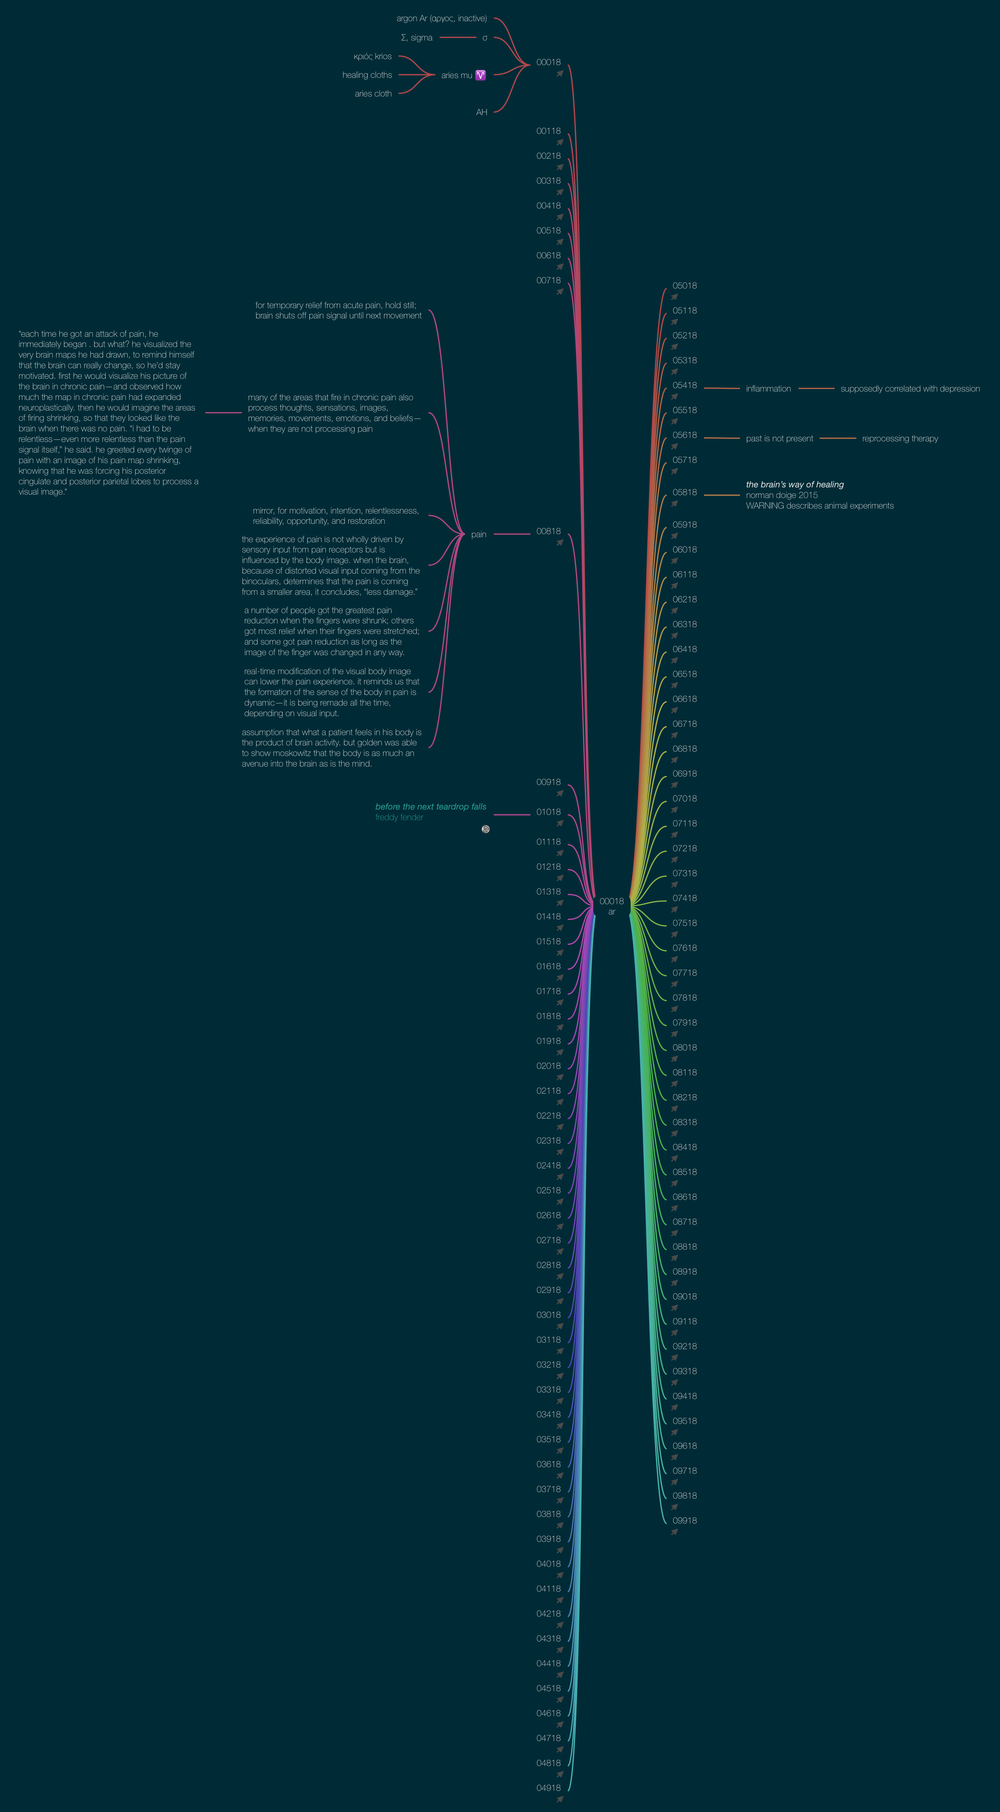
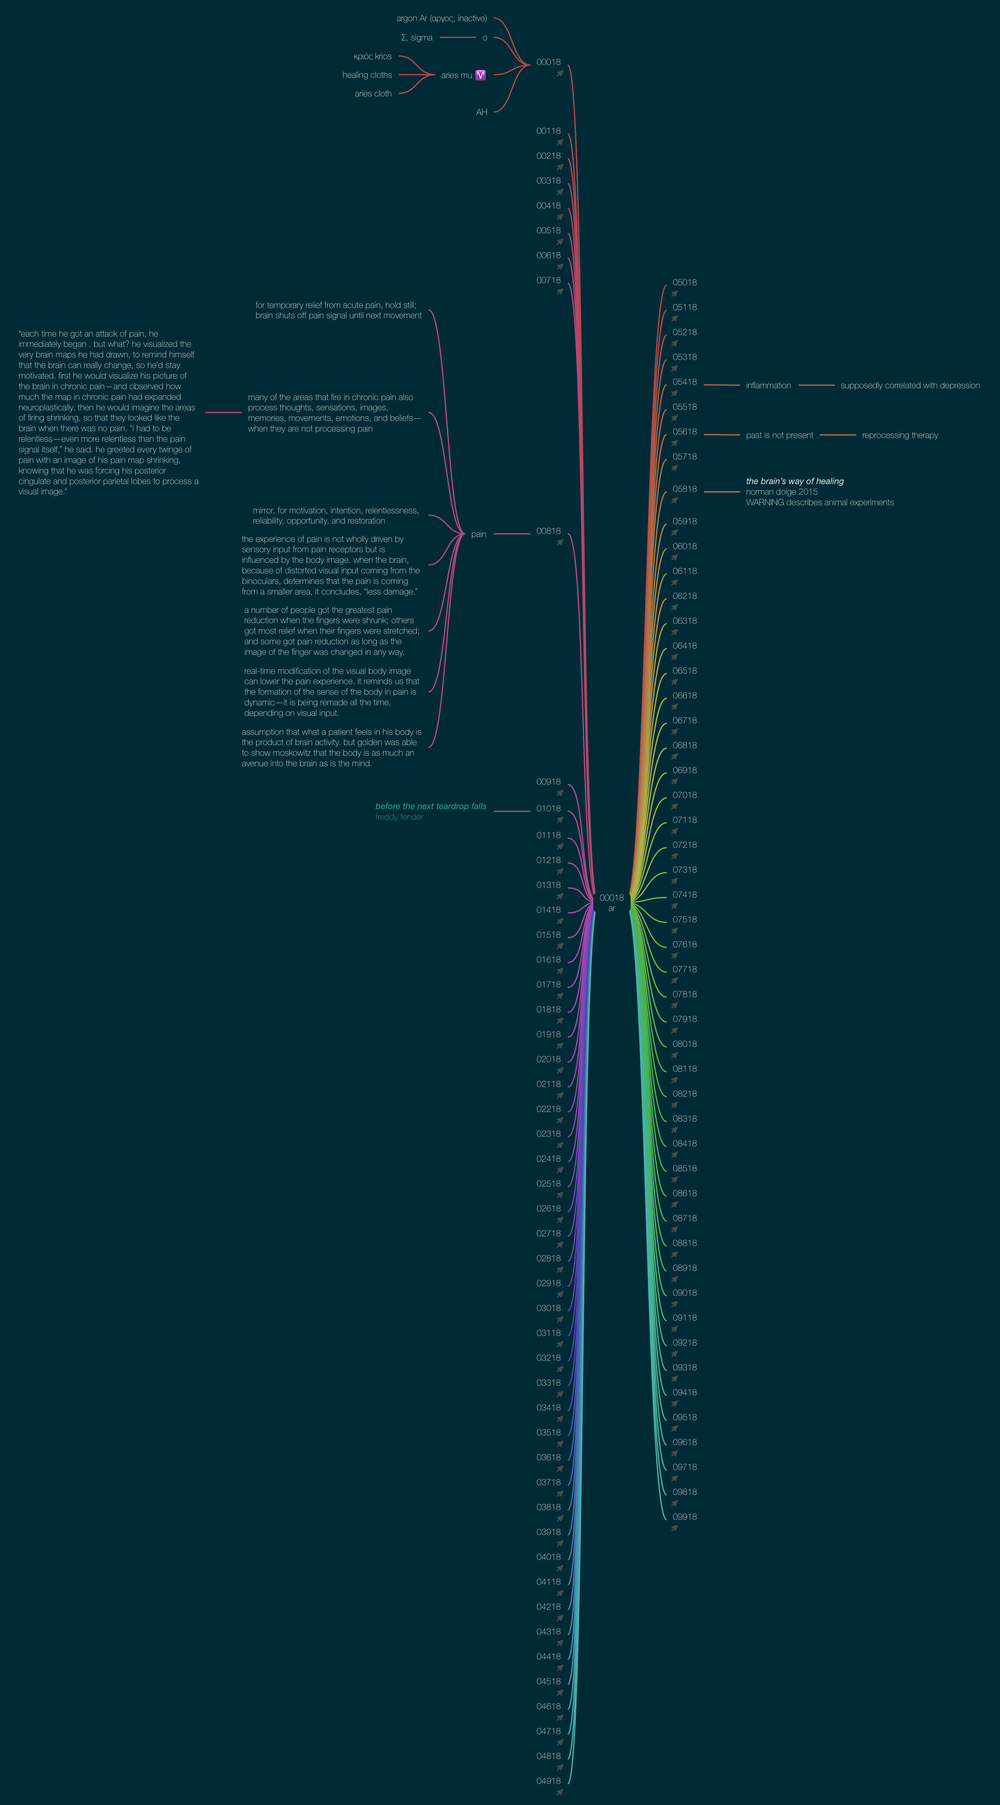
before the next teardrop falls

diff --git a/00018.html b/00018.html
@@ -45,8 +45,8 @@ rect:hover {
 
 <body>
 
-<div class="container"><div class="spacer">&nbsp;</div><div class="svg-container"><svg version="1.1"  preserveAspectRatio="xMinYMin meet" class="svg-content" viewBox="0 0 3216 5822" xmlns="http://www.w3.org/2000/svg" xmlns:xlink="http://www.w3.org/1999/xlink">
-<image width="3216" height="5822" xlink:href="00018-assets/00018.png"></image>
+<div class="container"><div class="spacer">&nbsp;</div><div class="svg-container"><svg version="1.1"  preserveAspectRatio="xMinYMin meet" class="svg-content" viewBox="0 0 3216 5802" xmlns="http://www.w3.org/2000/svg" xmlns:xlink="http://www.w3.org/1999/xlink">
+<image width="3216" height="5802" xlink:href="00018-assets/00018.png"></image>
 <a xlink:href="00018" xlink:title="00018"><rect x="1786" y="223" width="28" height="28"/></a>
 <a xlink:href="00118" xlink:title="00118"><rect x="1786" y="444" width="28" height="28"/></a>
 <a xlink:href="00218" xlink:title="00218"><rect x="1786" y="524" width="28" height="28"/></a>
@@ -57,97 +57,96 @@ rect:hover {
 <a xlink:href="00718" xlink:title="00718"><rect x="1786" y="924" width="28" height="28"/></a>
 <a xlink:href="00818" xlink:title="00818"><rect x="1786" y="1730" width="28" height="28"/></a>
 <a xlink:href="00918" xlink:title="00918"><rect x="1786" y="2536" width="28" height="28"/></a>
-<a xlink:href="01018" xlink:title="01018"><rect x="1786" y="2632" width="28" height="28"/></a>
-<a xlink:href="https://soundcloud.com/makiaea/before-the-next-teardrop-falls-freddie-fender-cover-makiaea-vocal-solo" xlink:title="https://soundcloud.com/makiaea/before-the-next-teardrop-falls-freddie-fender-cover-makiaea-vocal-solo"><rect x="1548" y="2650" width="28" height="28"/></a>
-<a xlink:href="01118" xlink:title="01118"><rect x="1786" y="2728" width="28" height="28"/></a>
-<a xlink:href="01218" xlink:title="01218"><rect x="1786" y="2808" width="28" height="28"/></a>
-<a xlink:href="01318" xlink:title="01318"><rect x="1786" y="2888" width="28" height="28"/></a>
-<a xlink:href="01418" xlink:title="01418"><rect x="1786" y="2968" width="28" height="28"/></a>
-<a xlink:href="01518" xlink:title="01518"><rect x="1786" y="3048" width="28" height="28"/></a>
-<a xlink:href="01618" xlink:title="01618"><rect x="1786" y="3128" width="28" height="28"/></a>
-<a xlink:href="01718" xlink:title="01718"><rect x="1786" y="3208" width="28" height="28"/></a>
-<a xlink:href="01818" xlink:title="01818"><rect x="1786" y="3288" width="28" height="28"/></a>
-<a xlink:href="01918" xlink:title="01918"><rect x="1786" y="3368" width="28" height="28"/></a>
-<a xlink:href="02018" xlink:title="02018"><rect x="1786" y="3448" width="28" height="28"/></a>
-<a xlink:href="02118" xlink:title="02118"><rect x="1786" y="3528" width="28" height="28"/></a>
-<a xlink:href="02218" xlink:title="02218"><rect x="1786" y="3608" width="28" height="28"/></a>
-<a xlink:href="02318" xlink:title="02318"><rect x="1786" y="3688" width="28" height="28"/></a>
-<a xlink:href="02418" xlink:title="02418"><rect x="1786" y="3768" width="28" height="28"/></a>
-<a xlink:href="02518" xlink:title="02518"><rect x="1786" y="3848" width="28" height="28"/></a>
-<a xlink:href="02618" xlink:title="02618"><rect x="1786" y="3928" width="28" height="28"/></a>
-<a xlink:href="02718" xlink:title="02718"><rect x="1786" y="4008" width="28" height="28"/></a>
-<a xlink:href="02818" xlink:title="02818"><rect x="1786" y="4088" width="28" height="28"/></a>
-<a xlink:href="02918" xlink:title="02918"><rect x="1786" y="4168" width="28" height="28"/></a>
-<a xlink:href="03018" xlink:title="03018"><rect x="1786" y="4248" width="28" height="28"/></a>
-<a xlink:href="03118" xlink:title="03118"><rect x="1786" y="4328" width="28" height="28"/></a>
-<a xlink:href="03218" xlink:title="03218"><rect x="1786" y="4408" width="28" height="28"/></a>
-<a xlink:href="03318" xlink:title="03318"><rect x="1786" y="4488" width="28" height="28"/></a>
-<a xlink:href="03418" xlink:title="03418"><rect x="1786" y="4568" width="28" height="28"/></a>
-<a xlink:href="03518" xlink:title="03518"><rect x="1786" y="4648" width="28" height="28"/></a>
-<a xlink:href="03618" xlink:title="03618"><rect x="1786" y="4728" width="28" height="28"/></a>
-<a xlink:href="03718" xlink:title="03718"><rect x="1786" y="4808" width="28" height="28"/></a>
-<a xlink:href="03818" xlink:title="03818"><rect x="1786" y="4888" width="28" height="28"/></a>
-<a xlink:href="03918" xlink:title="03918"><rect x="1786" y="4968" width="28" height="28"/></a>
-<a xlink:href="04018" xlink:title="04018"><rect x="1786" y="5048" width="28" height="28"/></a>
-<a xlink:href="04118" xlink:title="04118"><rect x="1786" y="5128" width="28" height="28"/></a>
-<a xlink:href="04218" xlink:title="04218"><rect x="1786" y="5208" width="28" height="28"/></a>
-<a xlink:href="04318" xlink:title="04318"><rect x="1786" y="5288" width="28" height="28"/></a>
-<a xlink:href="04418" xlink:title="04418"><rect x="1786" y="5368" width="28" height="28"/></a>
-<a xlink:href="04518" xlink:title="04518"><rect x="1786" y="5448" width="28" height="28"/></a>
-<a xlink:href="04618" xlink:title="04618"><rect x="1786" y="5528" width="28" height="28"/></a>
-<a xlink:href="04718" xlink:title="04718"><rect x="1786" y="5608" width="28" height="28"/></a>
-<a xlink:href="04818" xlink:title="04818"><rect x="1786" y="5688" width="28" height="28"/></a>
-<a xlink:href="04918" xlink:title="04918"><rect x="1786" y="5768" width="28" height="28"/></a>
-<a xlink:href="05018" xlink:title="05018"><rect x="2154" y="941" width="28" height="28"/></a>
-<a xlink:href="05118" xlink:title="05118"><rect x="2154" y="1021" width="28" height="28"/></a>
-<a xlink:href="05218" xlink:title="05218"><rect x="2154" y="1101" width="28" height="28"/></a>
-<a xlink:href="05318" xlink:title="05318"><rect x="2154" y="1181" width="28" height="28"/></a>
-<a xlink:href="05418" xlink:title="05418"><rect x="2154" y="1261" width="28" height="28"/></a>
-<a xlink:href="05518" xlink:title="05518"><rect x="2154" y="1341" width="28" height="28"/></a>
-<a xlink:href="05618" xlink:title="05618"><rect x="2154" y="1421" width="28" height="28"/></a>
-<a xlink:href="05718" xlink:title="05718"><rect x="2154" y="1501" width="28" height="28"/></a>
-<a xlink:href="05818" xlink:title="05818"><rect x="2154" y="1605" width="28" height="28"/></a>
-<a xlink:href="05918" xlink:title="05918"><rect x="2154" y="1709" width="28" height="28"/></a>
-<a xlink:href="06018" xlink:title="06018"><rect x="2154" y="1789" width="28" height="28"/></a>
-<a xlink:href="06118" xlink:title="06118"><rect x="2154" y="1869" width="28" height="28"/></a>
-<a xlink:href="06218" xlink:title="06218"><rect x="2154" y="1949" width="28" height="28"/></a>
-<a xlink:href="06318" xlink:title="06318"><rect x="2154" y="2029" width="28" height="28"/></a>
-<a xlink:href="06418" xlink:title="06418"><rect x="2154" y="2109" width="28" height="28"/></a>
-<a xlink:href="06518" xlink:title="06518"><rect x="2154" y="2189" width="28" height="28"/></a>
-<a xlink:href="06618" xlink:title="06618"><rect x="2154" y="2269" width="28" height="28"/></a>
-<a xlink:href="06718" xlink:title="06718"><rect x="2154" y="2349" width="28" height="28"/></a>
-<a xlink:href="06818" xlink:title="06818"><rect x="2154" y="2429" width="28" height="28"/></a>
-<a xlink:href="06918" xlink:title="06918"><rect x="2154" y="2509" width="28" height="28"/></a>
-<a xlink:href="07018" xlink:title="07018"><rect x="2154" y="2589" width="28" height="28"/></a>
-<a xlink:href="07118" xlink:title="07118"><rect x="2154" y="2669" width="28" height="28"/></a>
-<a xlink:href="07218" xlink:title="07218"><rect x="2154" y="2749" width="28" height="28"/></a>
-<a xlink:href="07318" xlink:title="07318"><rect x="2154" y="2829" width="28" height="28"/></a>
-<a xlink:href="07418" xlink:title="07418"><rect x="2154" y="2909" width="28" height="28"/></a>
-<a xlink:href="07518" xlink:title="07518"><rect x="2154" y="2989" width="28" height="28"/></a>
-<a xlink:href="07618" xlink:title="07618"><rect x="2154" y="3069" width="28" height="28"/></a>
-<a xlink:href="07718" xlink:title="07718"><rect x="2154" y="3149" width="28" height="28"/></a>
-<a xlink:href="07818" xlink:title="07818"><rect x="2154" y="3229" width="28" height="28"/></a>
-<a xlink:href="07918" xlink:title="07918"><rect x="2154" y="3309" width="28" height="28"/></a>
-<a xlink:href="08018" xlink:title="08018"><rect x="2154" y="3389" width="28" height="28"/></a>
-<a xlink:href="08118" xlink:title="08118"><rect x="2154" y="3469" width="28" height="28"/></a>
-<a xlink:href="08218" xlink:title="08218"><rect x="2154" y="3549" width="28" height="28"/></a>
-<a xlink:href="08318" xlink:title="08318"><rect x="2154" y="3629" width="28" height="28"/></a>
-<a xlink:href="08418" xlink:title="08418"><rect x="2154" y="3709" width="28" height="28"/></a>
-<a xlink:href="08518" xlink:title="08518"><rect x="2154" y="3789" width="28" height="28"/></a>
-<a xlink:href="08618" xlink:title="08618"><rect x="2154" y="3869" width="28" height="28"/></a>
-<a xlink:href="08718" xlink:title="08718"><rect x="2154" y="3949" width="28" height="28"/></a>
-<a xlink:href="08818" xlink:title="08818"><rect x="2154" y="4029" width="28" height="28"/></a>
-<a xlink:href="08918" xlink:title="08918"><rect x="2154" y="4109" width="28" height="28"/></a>
-<a xlink:href="09018" xlink:title="09018"><rect x="2154" y="4189" width="28" height="28"/></a>
-<a xlink:href="09118" xlink:title="09118"><rect x="2154" y="4269" width="28" height="28"/></a>
-<a xlink:href="09218" xlink:title="09218"><rect x="2154" y="4349" width="28" height="28"/></a>
-<a xlink:href="09318" xlink:title="09318"><rect x="2154" y="4429" width="28" height="28"/></a>
-<a xlink:href="09418" xlink:title="09418"><rect x="2154" y="4509" width="28" height="28"/></a>
-<a xlink:href="09518" xlink:title="09518"><rect x="2154" y="4589" width="28" height="28"/></a>
-<a xlink:href="09618" xlink:title="09618"><rect x="2154" y="4669" width="28" height="28"/></a>
-<a xlink:href="09718" xlink:title="09718"><rect x="2154" y="4749" width="28" height="28"/></a>
-<a xlink:href="09818" xlink:title="09818"><rect x="2154" y="4829" width="28" height="28"/></a>
-<a xlink:href="09918" xlink:title="09918"><rect x="2154" y="4909" width="28" height="28"/></a>
+<a xlink:href="ithoughts://open?path=01018.itmz" xlink:title="ithoughts://open?path=01018.itmz"><rect x="1786" y="2622" width="28" height="28"/></a>
+<a xlink:href="01118" xlink:title="01118"><rect x="1786" y="2708" width="28" height="28"/></a>
+<a xlink:href="01218" xlink:title="01218"><rect x="1786" y="2788" width="28" height="28"/></a>
+<a xlink:href="01318" xlink:title="01318"><rect x="1786" y="2868" width="28" height="28"/></a>
+<a xlink:href="01418" xlink:title="01418"><rect x="1786" y="2948" width="28" height="28"/></a>
+<a xlink:href="01518" xlink:title="01518"><rect x="1786" y="3028" width="28" height="28"/></a>
+<a xlink:href="01618" xlink:title="01618"><rect x="1786" y="3108" width="28" height="28"/></a>
+<a xlink:href="01718" xlink:title="01718"><rect x="1786" y="3188" width="28" height="28"/></a>
+<a xlink:href="01818" xlink:title="01818"><rect x="1786" y="3268" width="28" height="28"/></a>
+<a xlink:href="01918" xlink:title="01918"><rect x="1786" y="3348" width="28" height="28"/></a>
+<a xlink:href="02018" xlink:title="02018"><rect x="1786" y="3428" width="28" height="28"/></a>
+<a xlink:href="02118" xlink:title="02118"><rect x="1786" y="3508" width="28" height="28"/></a>
+<a xlink:href="02218" xlink:title="02218"><rect x="1786" y="3588" width="28" height="28"/></a>
+<a xlink:href="02318" xlink:title="02318"><rect x="1786" y="3668" width="28" height="28"/></a>
+<a xlink:href="02418" xlink:title="02418"><rect x="1786" y="3748" width="28" height="28"/></a>
+<a xlink:href="02518" xlink:title="02518"><rect x="1786" y="3828" width="28" height="28"/></a>
+<a xlink:href="02618" xlink:title="02618"><rect x="1786" y="3908" width="28" height="28"/></a>
+<a xlink:href="02718" xlink:title="02718"><rect x="1786" y="3988" width="28" height="28"/></a>
+<a xlink:href="02818" xlink:title="02818"><rect x="1786" y="4068" width="28" height="28"/></a>
+<a xlink:href="02918" xlink:title="02918"><rect x="1786" y="4148" width="28" height="28"/></a>
+<a xlink:href="03018" xlink:title="03018"><rect x="1786" y="4228" width="28" height="28"/></a>
+<a xlink:href="03118" xlink:title="03118"><rect x="1786" y="4308" width="28" height="28"/></a>
+<a xlink:href="03218" xlink:title="03218"><rect x="1786" y="4388" width="28" height="28"/></a>
+<a xlink:href="03318" xlink:title="03318"><rect x="1786" y="4468" width="28" height="28"/></a>
+<a xlink:href="03418" xlink:title="03418"><rect x="1786" y="4548" width="28" height="28"/></a>
+<a xlink:href="03518" xlink:title="03518"><rect x="1786" y="4628" width="28" height="28"/></a>
+<a xlink:href="03618" xlink:title="03618"><rect x="1786" y="4708" width="28" height="28"/></a>
+<a xlink:href="03718" xlink:title="03718"><rect x="1786" y="4788" width="28" height="28"/></a>
+<a xlink:href="03818" xlink:title="03818"><rect x="1786" y="4868" width="28" height="28"/></a>
+<a xlink:href="03918" xlink:title="03918"><rect x="1786" y="4948" width="28" height="28"/></a>
+<a xlink:href="04018" xlink:title="04018"><rect x="1786" y="5028" width="28" height="28"/></a>
+<a xlink:href="04118" xlink:title="04118"><rect x="1786" y="5108" width="28" height="28"/></a>
+<a xlink:href="04218" xlink:title="04218"><rect x="1786" y="5188" width="28" height="28"/></a>
+<a xlink:href="04318" xlink:title="04318"><rect x="1786" y="5268" width="28" height="28"/></a>
+<a xlink:href="04418" xlink:title="04418"><rect x="1786" y="5348" width="28" height="28"/></a>
+<a xlink:href="04518" xlink:title="04518"><rect x="1786" y="5428" width="28" height="28"/></a>
+<a xlink:href="04618" xlink:title="04618"><rect x="1786" y="5508" width="28" height="28"/></a>
+<a xlink:href="04718" xlink:title="04718"><rect x="1786" y="5588" width="28" height="28"/></a>
+<a xlink:href="04818" xlink:title="04818"><rect x="1786" y="5668" width="28" height="28"/></a>
+<a xlink:href="04918" xlink:title="04918"><rect x="1786" y="5748" width="28" height="28"/></a>
+<a xlink:href="05018" xlink:title="05018"><rect x="2154" y="931" width="28" height="28"/></a>
+<a xlink:href="05118" xlink:title="05118"><rect x="2154" y="1011" width="28" height="28"/></a>
+<a xlink:href="05218" xlink:title="05218"><rect x="2154" y="1091" width="28" height="28"/></a>
+<a xlink:href="05318" xlink:title="05318"><rect x="2154" y="1171" width="28" height="28"/></a>
+<a xlink:href="05418" xlink:title="05418"><rect x="2154" y="1251" width="28" height="28"/></a>
+<a xlink:href="05518" xlink:title="05518"><rect x="2154" y="1331" width="28" height="28"/></a>
+<a xlink:href="05618" xlink:title="05618"><rect x="2154" y="1411" width="28" height="28"/></a>
+<a xlink:href="05718" xlink:title="05718"><rect x="2154" y="1491" width="28" height="28"/></a>
+<a xlink:href="05818" xlink:title="05818"><rect x="2154" y="1595" width="28" height="28"/></a>
+<a xlink:href="05918" xlink:title="05918"><rect x="2154" y="1699" width="28" height="28"/></a>
+<a xlink:href="06018" xlink:title="06018"><rect x="2154" y="1779" width="28" height="28"/></a>
+<a xlink:href="06118" xlink:title="06118"><rect x="2154" y="1859" width="28" height="28"/></a>
+<a xlink:href="06218" xlink:title="06218"><rect x="2154" y="1939" width="28" height="28"/></a>
+<a xlink:href="06318" xlink:title="06318"><rect x="2154" y="2019" width="28" height="28"/></a>
+<a xlink:href="06418" xlink:title="06418"><rect x="2154" y="2099" width="28" height="28"/></a>
+<a xlink:href="06518" xlink:title="06518"><rect x="2154" y="2179" width="28" height="28"/></a>
+<a xlink:href="06618" xlink:title="06618"><rect x="2154" y="2259" width="28" height="28"/></a>
+<a xlink:href="06718" xlink:title="06718"><rect x="2154" y="2339" width="28" height="28"/></a>
+<a xlink:href="06818" xlink:title="06818"><rect x="2154" y="2419" width="28" height="28"/></a>
+<a xlink:href="06918" xlink:title="06918"><rect x="2154" y="2499" width="28" height="28"/></a>
+<a xlink:href="07018" xlink:title="07018"><rect x="2154" y="2579" width="28" height="28"/></a>
+<a xlink:href="07118" xlink:title="07118"><rect x="2154" y="2659" width="28" height="28"/></a>
+<a xlink:href="07218" xlink:title="07218"><rect x="2154" y="2739" width="28" height="28"/></a>
+<a xlink:href="07318" xlink:title="07318"><rect x="2154" y="2819" width="28" height="28"/></a>
+<a xlink:href="07418" xlink:title="07418"><rect x="2154" y="2899" width="28" height="28"/></a>
+<a xlink:href="07518" xlink:title="07518"><rect x="2154" y="2979" width="28" height="28"/></a>
+<a xlink:href="07618" xlink:title="07618"><rect x="2154" y="3059" width="28" height="28"/></a>
+<a xlink:href="07718" xlink:title="07718"><rect x="2154" y="3139" width="28" height="28"/></a>
+<a xlink:href="07818" xlink:title="07818"><rect x="2154" y="3219" width="28" height="28"/></a>
+<a xlink:href="07918" xlink:title="07918"><rect x="2154" y="3299" width="28" height="28"/></a>
+<a xlink:href="08018" xlink:title="08018"><rect x="2154" y="3379" width="28" height="28"/></a>
+<a xlink:href="08118" xlink:title="08118"><rect x="2154" y="3459" width="28" height="28"/></a>
+<a xlink:href="08218" xlink:title="08218"><rect x="2154" y="3539" width="28" height="28"/></a>
+<a xlink:href="08318" xlink:title="08318"><rect x="2154" y="3619" width="28" height="28"/></a>
+<a xlink:href="08418" xlink:title="08418"><rect x="2154" y="3699" width="28" height="28"/></a>
+<a xlink:href="08518" xlink:title="08518"><rect x="2154" y="3779" width="28" height="28"/></a>
+<a xlink:href="08618" xlink:title="08618"><rect x="2154" y="3859" width="28" height="28"/></a>
+<a xlink:href="08718" xlink:title="08718"><rect x="2154" y="3939" width="28" height="28"/></a>
+<a xlink:href="08818" xlink:title="08818"><rect x="2154" y="4019" width="28" height="28"/></a>
+<a xlink:href="08918" xlink:title="08918"><rect x="2154" y="4099" width="28" height="28"/></a>
+<a xlink:href="09018" xlink:title="09018"><rect x="2154" y="4179" width="28" height="28"/></a>
+<a xlink:href="09118" xlink:title="09118"><rect x="2154" y="4259" width="28" height="28"/></a>
+<a xlink:href="09218" xlink:title="09218"><rect x="2154" y="4339" width="28" height="28"/></a>
+<a xlink:href="09318" xlink:title="09318"><rect x="2154" y="4419" width="28" height="28"/></a>
+<a xlink:href="09418" xlink:title="09418"><rect x="2154" y="4499" width="28" height="28"/></a>
+<a xlink:href="09518" xlink:title="09518"><rect x="2154" y="4579" width="28" height="28"/></a>
+<a xlink:href="09618" xlink:title="09618"><rect x="2154" y="4659" width="28" height="28"/></a>
+<a xlink:href="09718" xlink:title="09718"><rect x="2154" y="4739" width="28" height="28"/></a>
+<a xlink:href="09818" xlink:title="09818"><rect x="2154" y="4819" width="28" height="28"/></a>
+<a xlink:href="09918" xlink:title="09918"><rect x="2154" y="4899" width="28" height="28"/></a>
 </svg>
 </div>
 </div>
@@ -266,44 +265,10 @@ WARNING describes animal experiments</li>
 <h2>01218</h2>
 <h2>01118</h2>
 <h2>01018</h2>
+<p>Link: <a href="ithoughts://open?path=01018.itmz">01018.itmz</a></p>
 <ul>
-<li>
-<p><em>before the next teardrop falls</em><br />
-freddy fender<br />
-Link: <a href="https://soundcloud.com/makiaea/before-the-next-teardrop-falls-freddie-fender-cover-makiaea-vocal-solo">soundcloud.com/makiaea/before-the-next-teardrop-falls-freddie-fender-cover-makiaea-vocal-solo</a></p>
-<ul>
-<li>if he brings you happiness<br />
-then I wish you all the best<br />
-it’s your happiness that matters<br />
-most of all<br />
-　<br />
-but if he ever breaks your heart<br />
-if the teardrops ever start<br />
-i’ll be there<br />
-before the next teardrop falls<br />
-　<br />
-si te quiere de verdad<br />
-y te da felicidad<br />
-te deseo lo mas bueno pa’los dos<br />
-pero si te hace llorar<br />
-a mi me puedes hablar<br />
-y estare contigo cuando triste estas<br />
-　<br />
-i’ll be there<br />
-anytime you need me<br />
-by your side<br />
-to dry away<br />
-any teardrop that you cry<br />
-　<br />
-and if he ever leaves you blue<br />
-just remember - I love you<br />
-and I’ll be there<br />
-before the next teardrop falls<br />
-　<br />
-i’ll be there<br />
-before the next teardrop falls</li>
-</ul>
-</li>
+<li><em>before the next teardrop falls</em><br />
+freddy fender</li>
 </ul>
 <h2>00918</h2>
 <h2>00818</h2>

diff --git a/01018.html b/01018.html
@@ -1,0 +1,98 @@
+<html>
+<head>
+<meta http-equiv="Content-Type" content="text/html; charset=UTF-8"/>
+<title>01018</title>
+<script type="text/javascript">
+function showhide(id)
+{
+    var e = document.getElementById(id);
+    e.style.display = (e.style.display == 'block') ? 'none' : 'block';
+}
+</script>
+<style>
+rect {
+transition: .6s fill;
+fill: #D3D3D3;
+opacity: 0;
+}
+rect:hover {
+    fill: #D3D3D3;
+    opacity: 0.2;
+}
+
+.outline {
+    clear: both;
+}
+
+.svg-container {
+    width: 100%;
+    max-width: 1288px;
+    margin-left: auto;
+    margin-right: auto;
+    display: block;
+}
+
+.svg-content {
+    width: 100%;
+}
+
+.container {
+    width: 100%;
+}
+</style>
+
+</head>
+
+<body>
+
+<div class="container"><div class="spacer">&nbsp;</div><div class="svg-container"><svg version="1.1"  preserveAspectRatio="xMinYMin meet" class="svg-content" viewBox="0 0 1288 1096" xmlns="http://www.w3.org/2000/svg" xmlns:xlink="http://www.w3.org/1999/xlink">
+<image width="1288" height="1096" xlink:href="01018-assets/01018.png"></image>
+<a xlink:href="https://soundcloud.com/makiaea/before-the-next-teardrop-falls-freddie-fender-cover-makiaea-vocal-solo" xlink:title="https://soundcloud.com/makiaea/before-the-next-teardrop-falls-freddie-fender-cover-makiaea-vocal-solo"><rect x="286" y="580" width="28" height="28"/></a>
+</svg>
+</div>
+</div>
+
+<br/>
+<a href="javascript:showhide('outlineDiv')">Outline show/hide</a>
+<div id="outlineDiv" style="display:none;">
+<h1>01018</h1>
+<h2><em>before the next teardrop falls</em></h2>
+<p>freddy fender<br />
+Link: <a href="https://soundcloud.com/makiaea/before-the-next-teardrop-falls-freddie-fender-cover-makiaea-vocal-solo">soundcloud.com/makiaea/before-the-next-teardrop-falls-freddie-fender-cover-makiaea-vocal-solo</a></p>
+<ul>
+<li>if he brings you happiness<br />
+then I wish you all the best<br />
+it’s your happiness that matters<br />
+most of all<br />
+　<br />
+but if he ever breaks your heart<br />
+if the teardrops ever start<br />
+i’ll be there<br />
+before the next teardrop falls<br />
+　<br />
+si te quiere de verdad<br />
+y te da felicidad<br />
+te deseo lo mas bueno pa’los dos<br />
+pero si te hace llorar<br />
+a mi me puedes hablar<br />
+y estare contigo cuando triste estas<br />
+　<br />
+i’ll be there<br />
+anytime you need me<br />
+by your side<br />
+to dry away<br />
+any teardrop that you cry<br />
+　<br />
+and if he ever leaves you blue<br />
+just remember - I love you<br />
+and I’ll be there<br />
+before the next teardrop falls<br />
+　<br />
+i’ll be there<br />
+before the next teardrop falls</li>
+</ul>
+
+</div>
+
+</body>
+</html>
